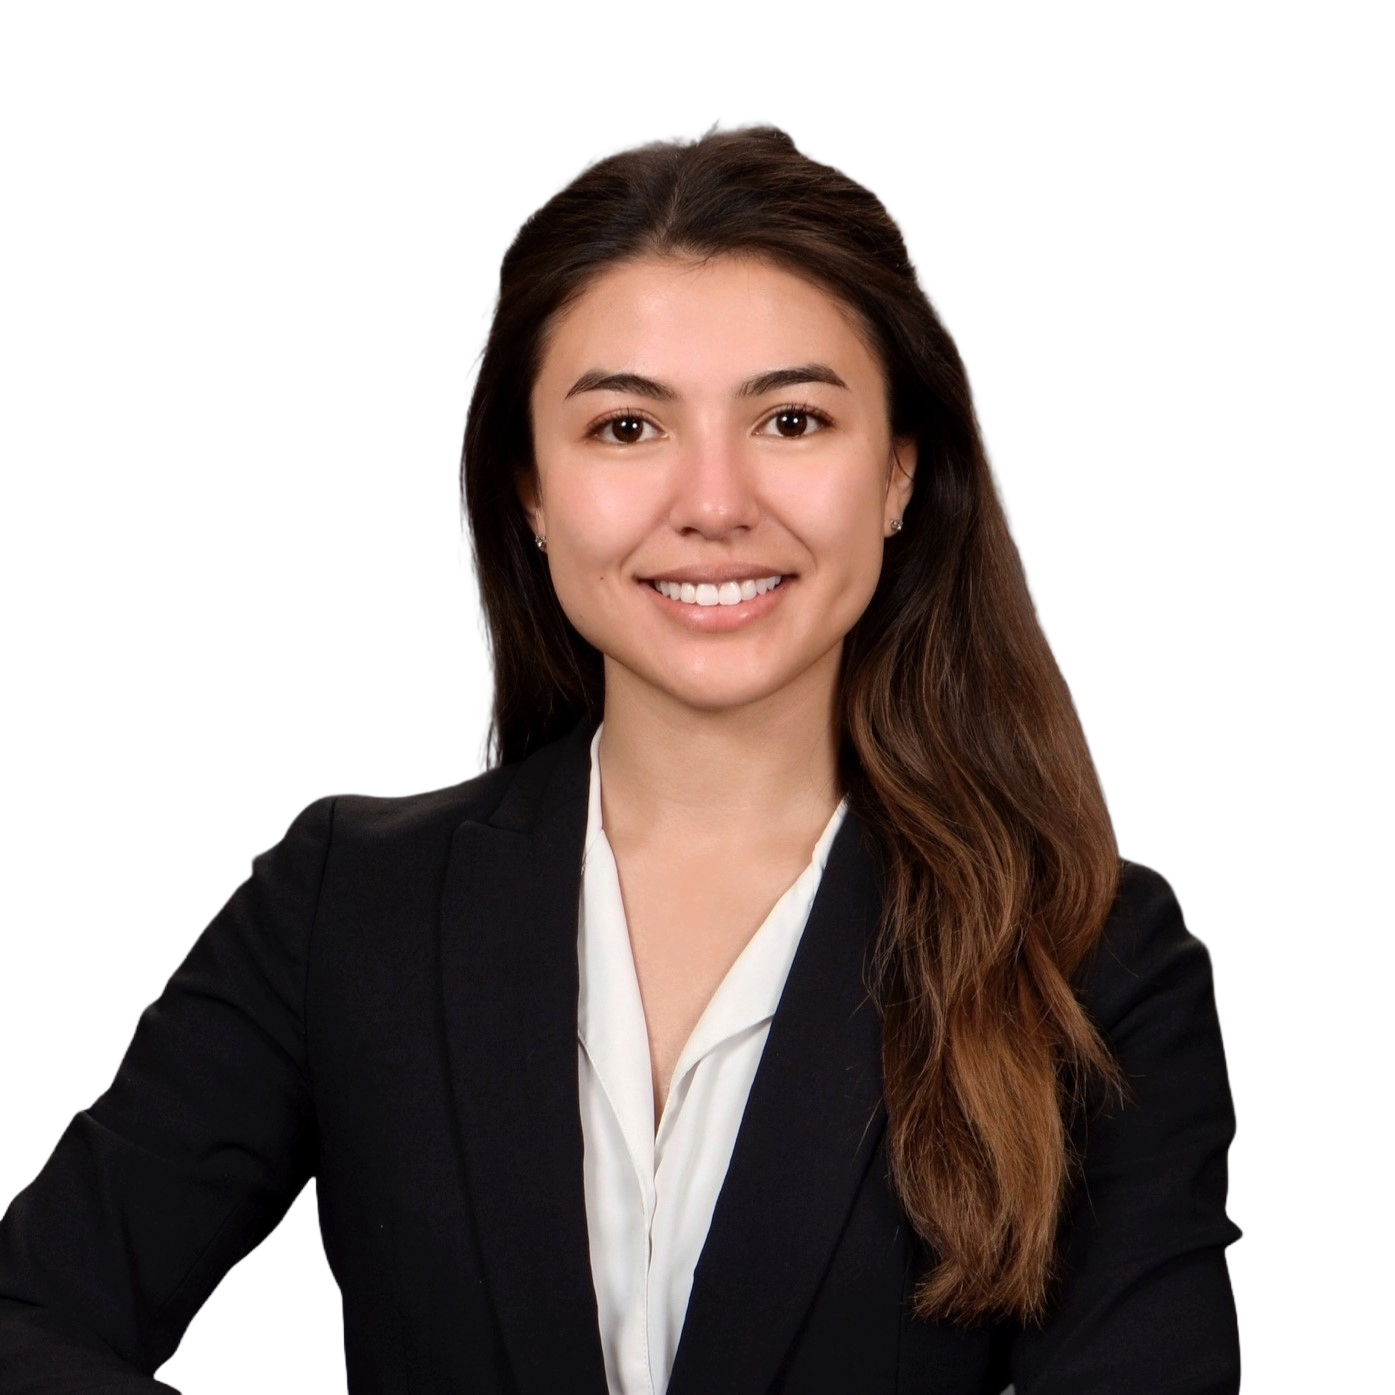
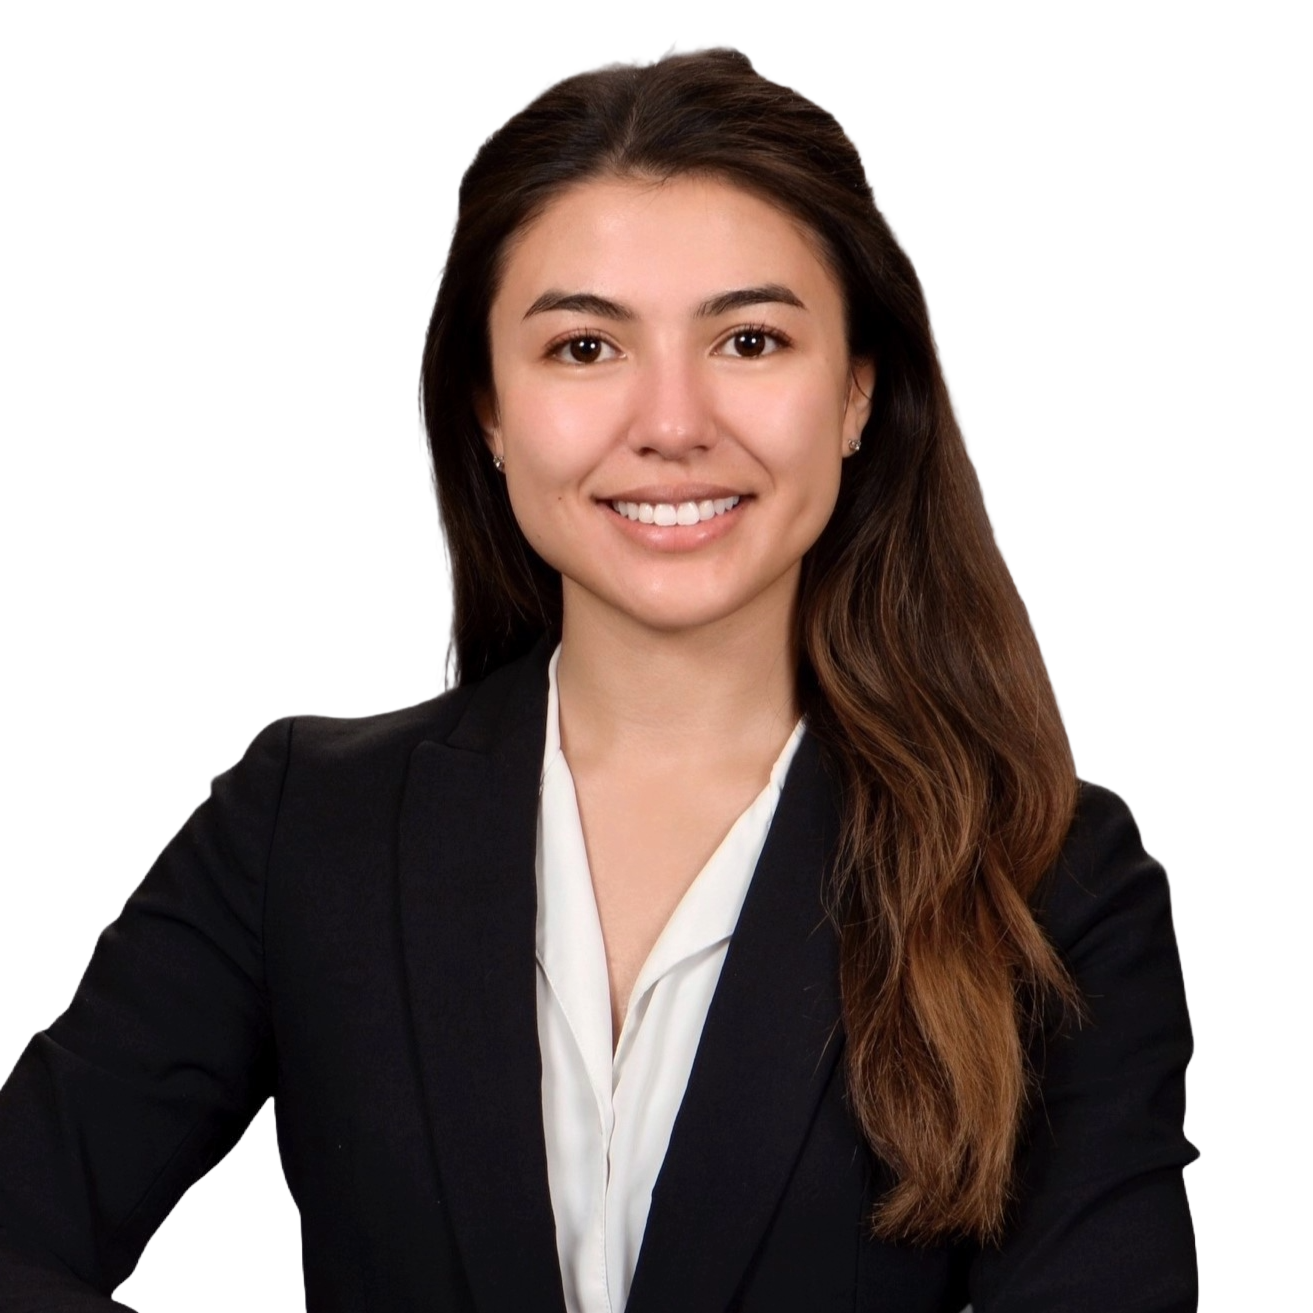
profile rounded edging

Changed region(s): [[0.0, 0.0312, 0.9368, 1.0], [0.0625, 0.8431, 0.2498, 1.0], [0.7182, 0.9992, 0.7494, 1.0]]

diff --git a/index.html b/index.html
@@ -106,7 +106,7 @@
                                     165.547 130.807 187.559 100.226 186.353C69.6454 185.297 41.0228 161.023 21.7403 
                                     129.362C2.45775 97.8511 -7.48481 59.1033 6.67581 34.5279C20.9871 10.1032 59.7028 
                                     -0.149132 97.9666 0.00163737C136.23 0.303176 174.193 10.857 190.312 36.4879Z" />
-                                <image class="home__blob-img" x="12" y="10" href="./assets/img/file.png" />
+                                <image class="home__blob-img" x="12" y="18" href="./assets/img/file.png" />
                             </g>
                         </svg>
                     </div>
